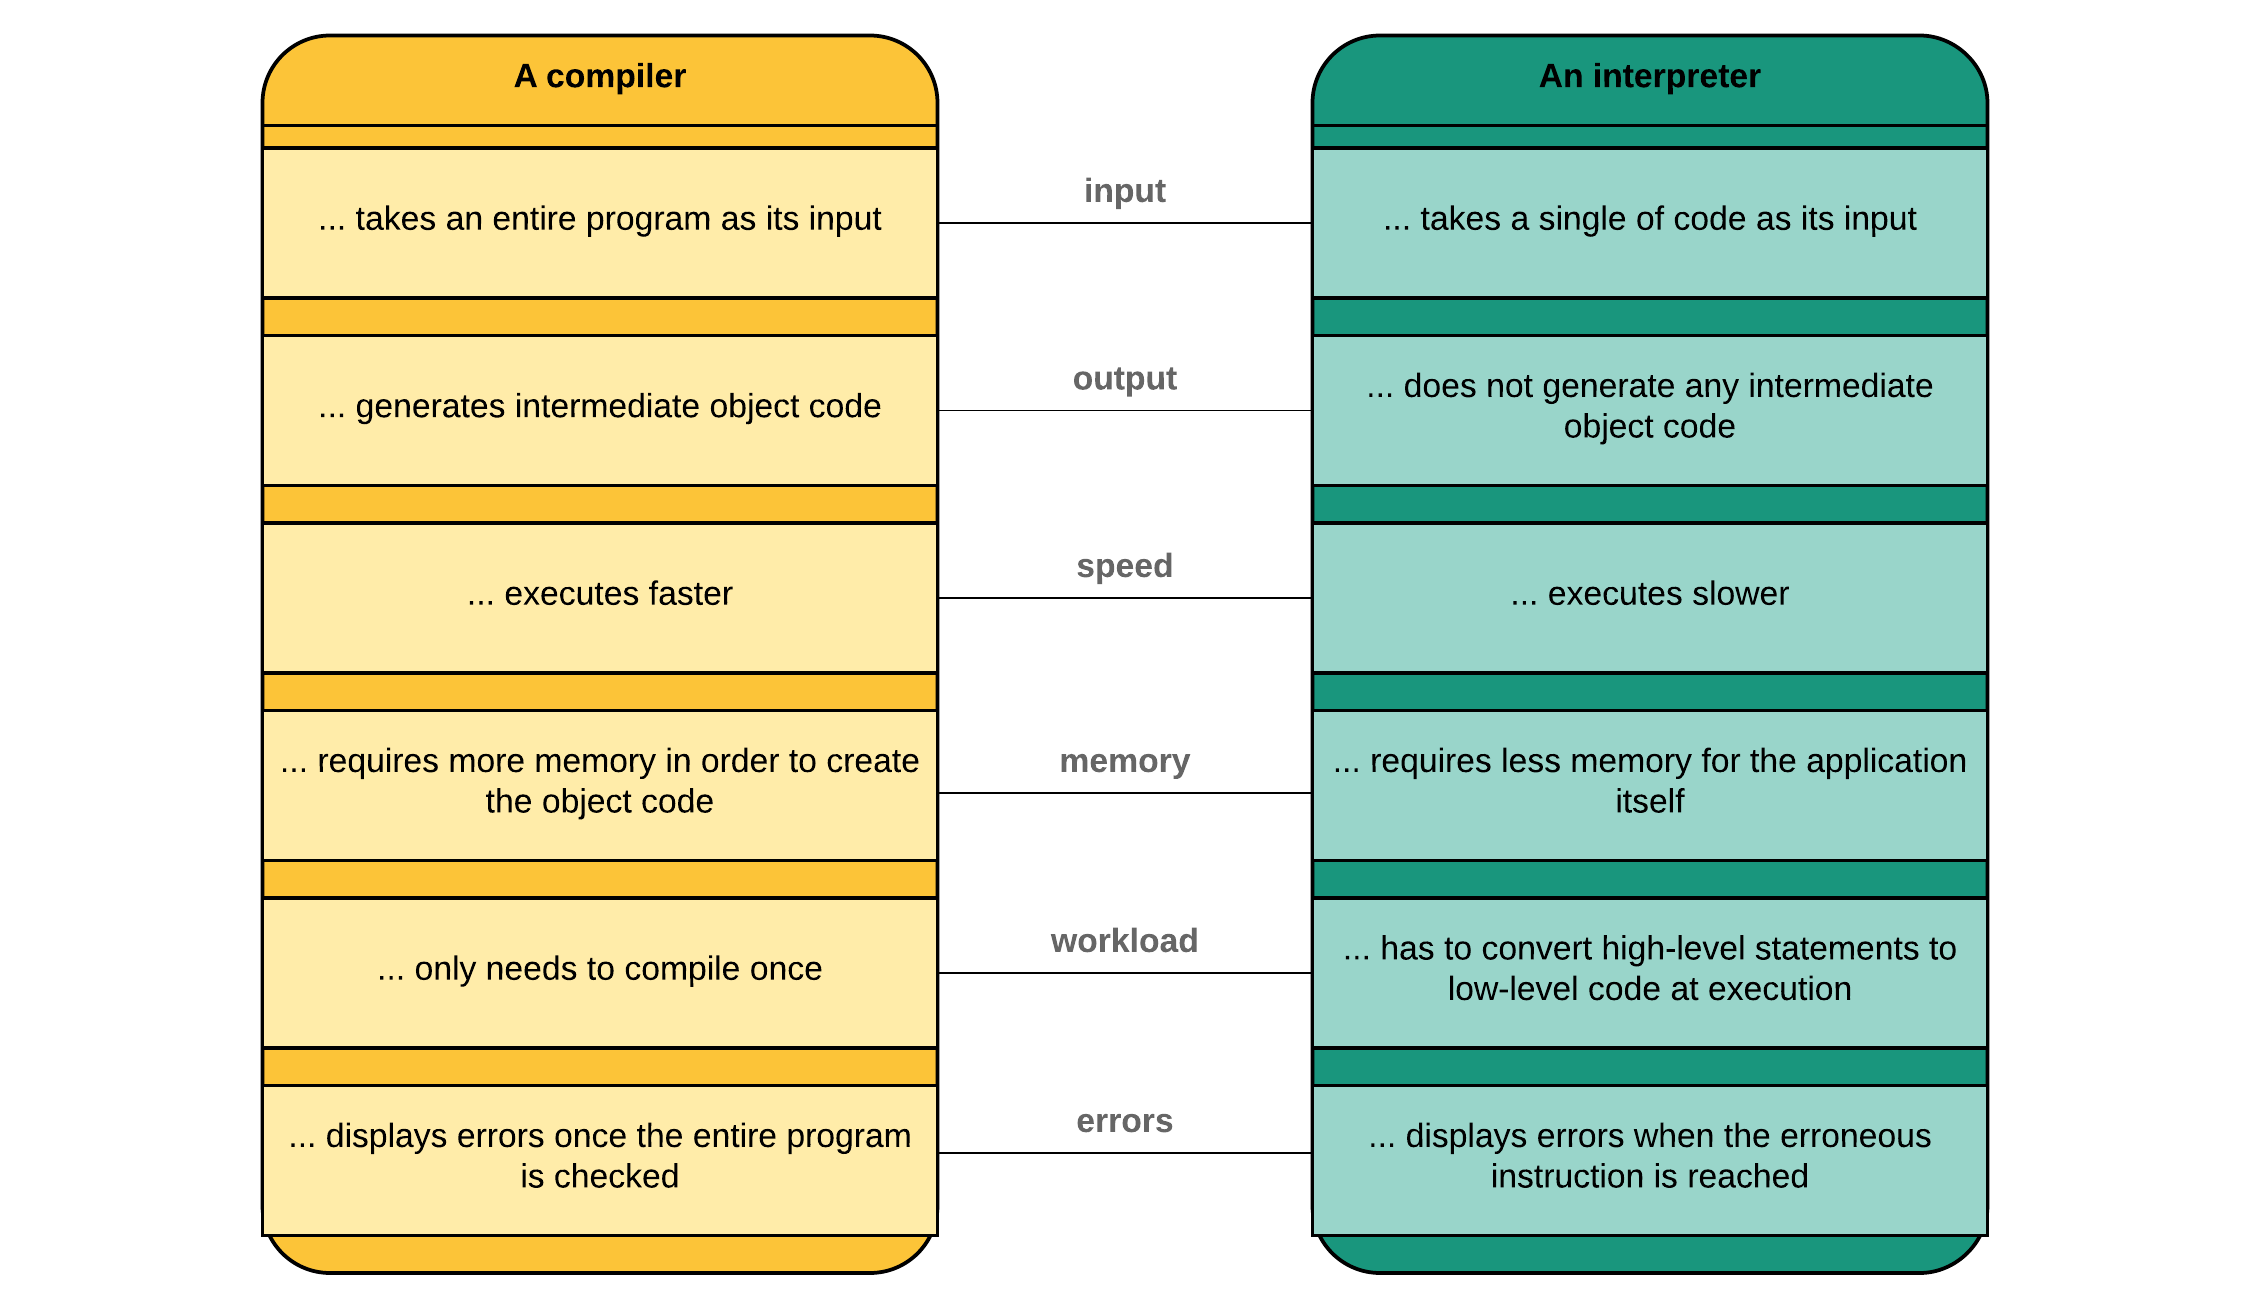
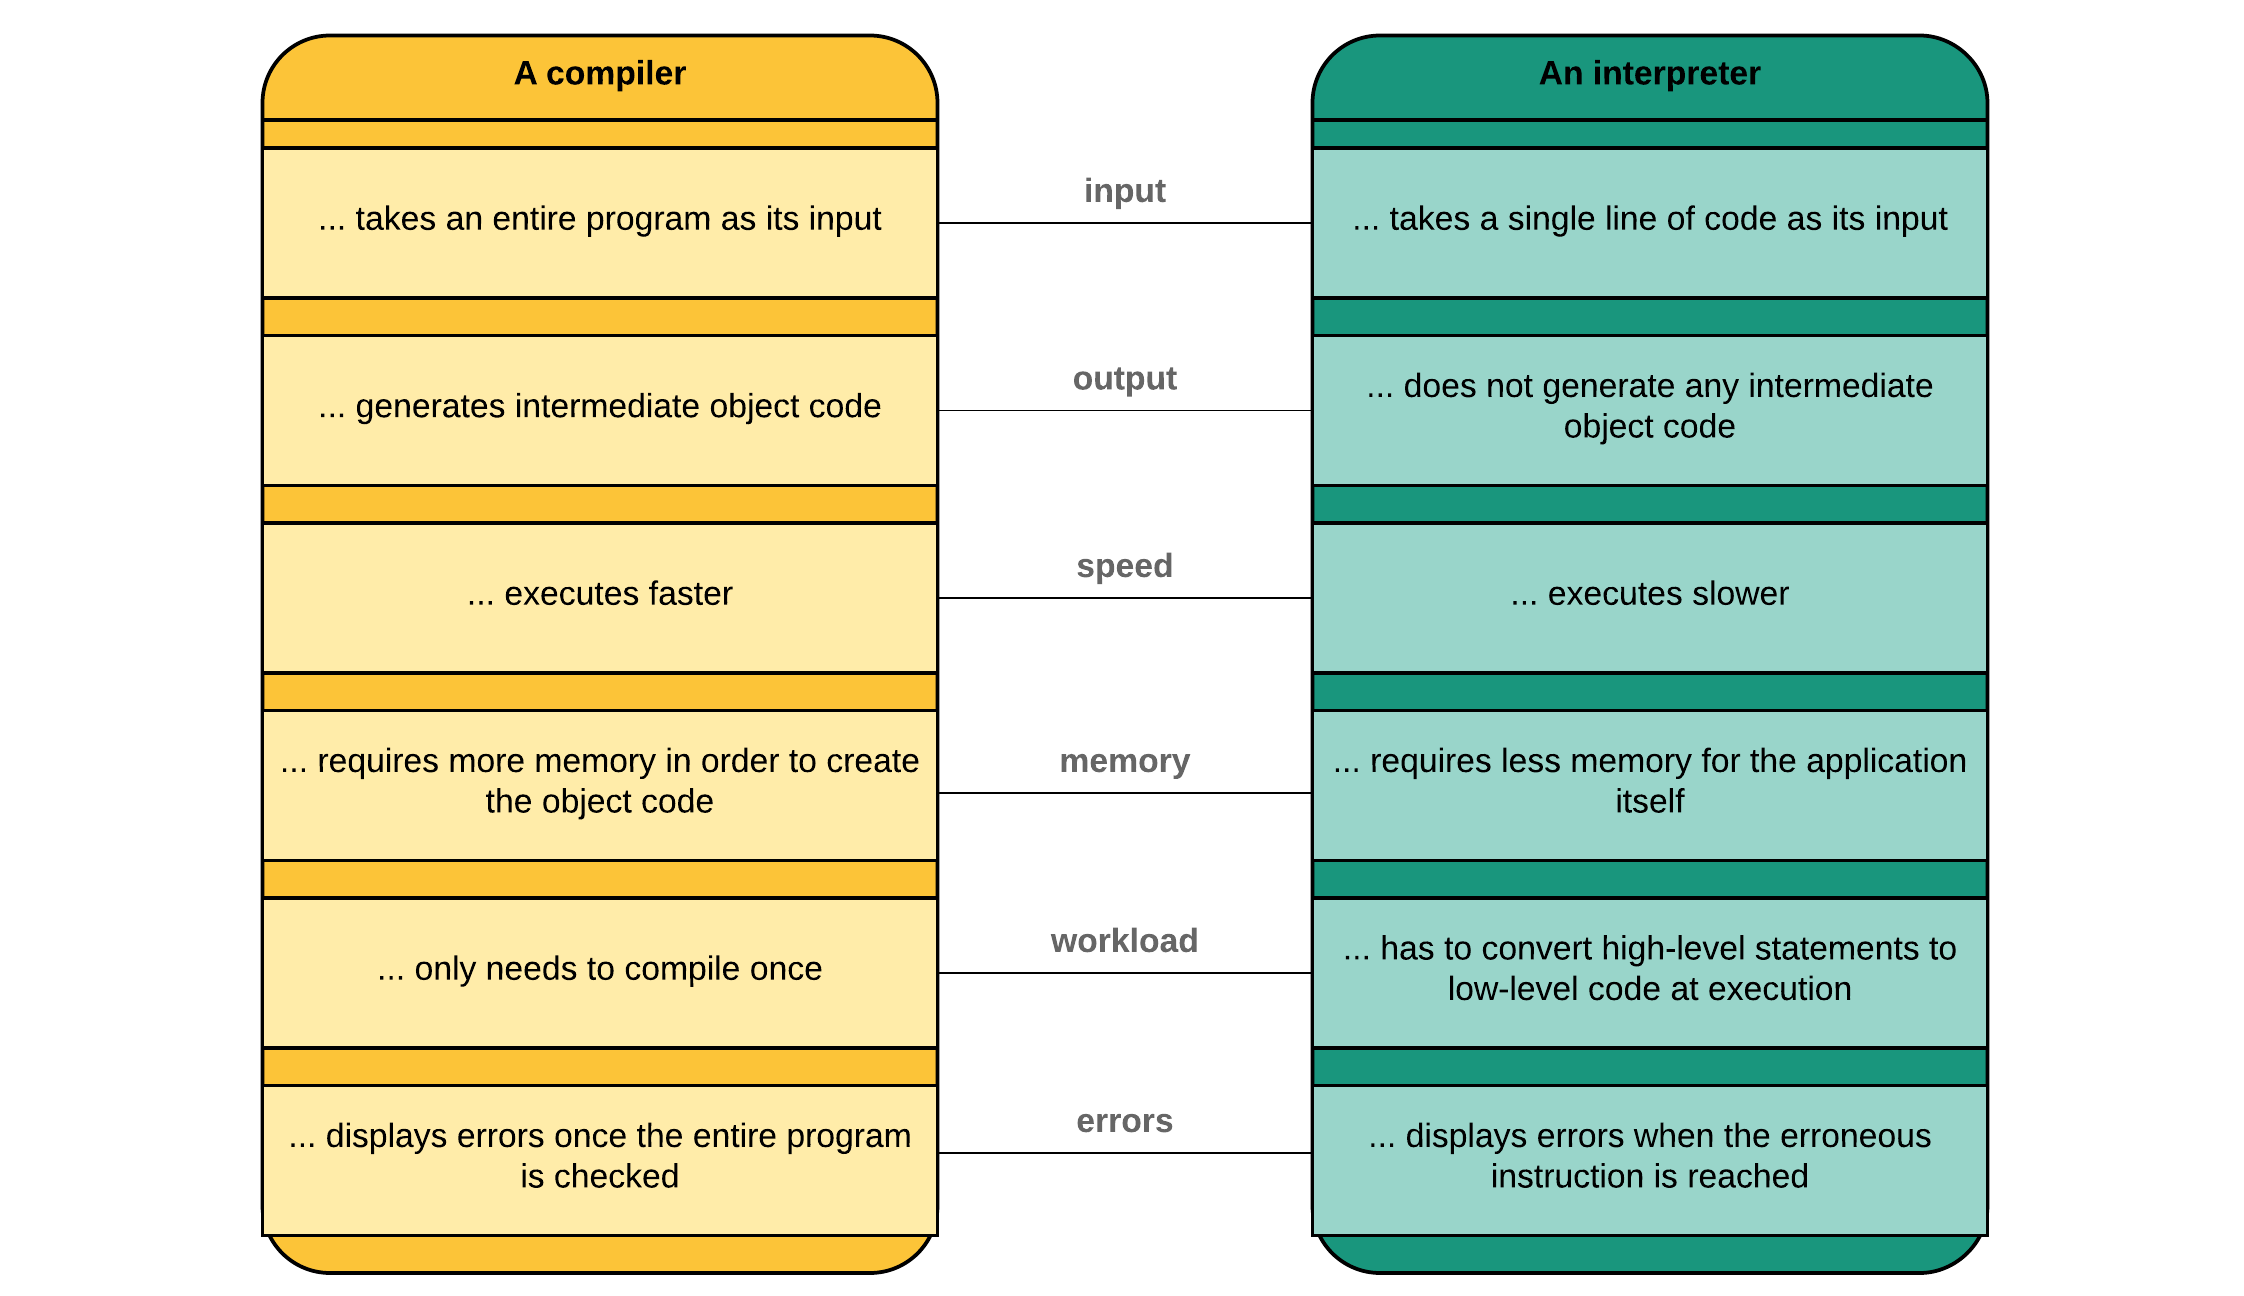
Fix some typos

Changed region(s): [[0.5927, 0.0309, 0.8734, 0.1235], [0.1248, 0.0309, 0.4055, 0.1235], [0.6239, 0.1543, 0.8734, 0.1852]]

diff --git a/01_introduction_to_computer_programming/readme.md b/01_introduction_to_computer_programming/readme.md
@@ -92,7 +92,7 @@ This is analogous to the role that a human interpreter performs. For example, ra
 
 The computer interpreter performs the same function: it reads an instruction in one programming language, translates it into machine code, and then executes the machine code version. Once that instruction is out of the way it moves along to the next, performing exactly the same task, in much the same way that the interpreter of the Harry Potter novel would move on to the next line once the first has been related. Unlike compiled programs, at no point is a complete, discrete, machine code version of the program produced: at any point in time only a small number of instructions exist as machine code versions, and these will be removed from the computer's memory when they are no longer required.
 
-There are advantages for both types of software development. As a generalization, **compiled programs are faster to run but slower to develop**. Compiled programs often run faster because the computer only needs to execute the previously translated instructions. In interpreted languages, every time the program is run the computer also needs to translate each of the instructions. This translation causes a delay, slowing the execution of the program. On the other hand, interpreted languages are often written in a smaller time frame, because whole program does not need to be compiled each time a new feature is implemented.
+There are advantages for both types of software development. As a generalization, **compiled programs are faster to run but slower to develop**. Compiled programs often run faster because the computer only needs to execute the previously translated instructions. In interpreted languages, every time the program is run the computer also needs to translate each of the instructions. This translation causes a delay, slowing the execution of the program. On the other hand, interpreted languages are often written in a smaller time frame, because the whole program does not need to be compiled each time a new feature is implemented.
 
 Below is an overview of the most important differences between a compiler and an interpreter.
 
@@ -100,17 +100,17 @@ Below is an overview of the most important differences between a compiler and an
 
 #### What About Java
 
-Java implementations typically use a two-step compilation process. Java source code is compiled down to bytecode by the Java compiler. The bytecode is then executed by a Java Virtual Machine (JVM). Modern JVMs use a technique called Just-in-Time (JIT) compilation to compile the bytecode to native instructions understood by hardware CPU on the fly at runtime.
+Java implementations typically use a two-step compilation process. Java source code is compiled down to bytecode by the Java compiler. The bytecode is then executed by a Java Virtual Machine (JVM). Modern JVMs use a technique called Just-in-Time (JIT) compilation to compile the bytecode to native instructions understood by hardware CPU's on the fly at runtime.
 
-Some implementations of JVM may choose to interpret the bytecode instead of JIT compiling it to machine code, and running it directly. While this is still considered an "interpreter," It's quite different from interpreters that read and execute the high level source code (i.e. in this case, Java source code is not interpreted directly, the bytecode, output of Java compiler, is.)
+Some implementations of JVM may choose to interpret the bytecode instead of JIT compiling it to machine code, and running it directly. While this is still considered an "interpreter", it's quite different from interpreters that read and execute the high level source code (i.e. in this case, Java source code is not interpreted directly, the bytecode, output of Java compiler, is.)
 
-It is technically possible to compile Java down to native code ahead-of-time and run the resulting binary. It is also possible to interpret the Java code directly.
+It is technically possible to compile Java down to native code **ahead-of-time** and run the resulting binary. This is the case with applications running on smartphones. The compilation process takes places after the package is downloaded from the store. It is also possible to interpret the Java code directly.
 
 ![Java Code Execution Process](img/java_jvm_execution.png)
 
-## Levels of Progamming Languages
+## Levels of Programming Languages
 
-Programming languages are described in levels. **Low-level languages** are close to machine code, high-level programming languages are closer to natural languages. At the most basic level (or "lowest level") is **assembly language**. This language is just a direct translation of the binary instructions the computer executes - each assembly language instruction directly relates to one instruction in machine code. Thus just as every kind of processor architecture has its own machine code, each processor architecture also has its own assembly language.
+Programming languages are described in levels. **Low-level languages** are close to machine code, **high-level programming languages** are closer to natural languages. At the most basic level (or "lowest level") is **assembly language**. This language is just a direct translation of the binary instructions the computer executes - each assembly language instruction directly relates to one instruction in machine code. Thus just as every kind of processor architecture has its own machine code, each processor architecture also has its own assembly language.
 
 An assembly example:
 
